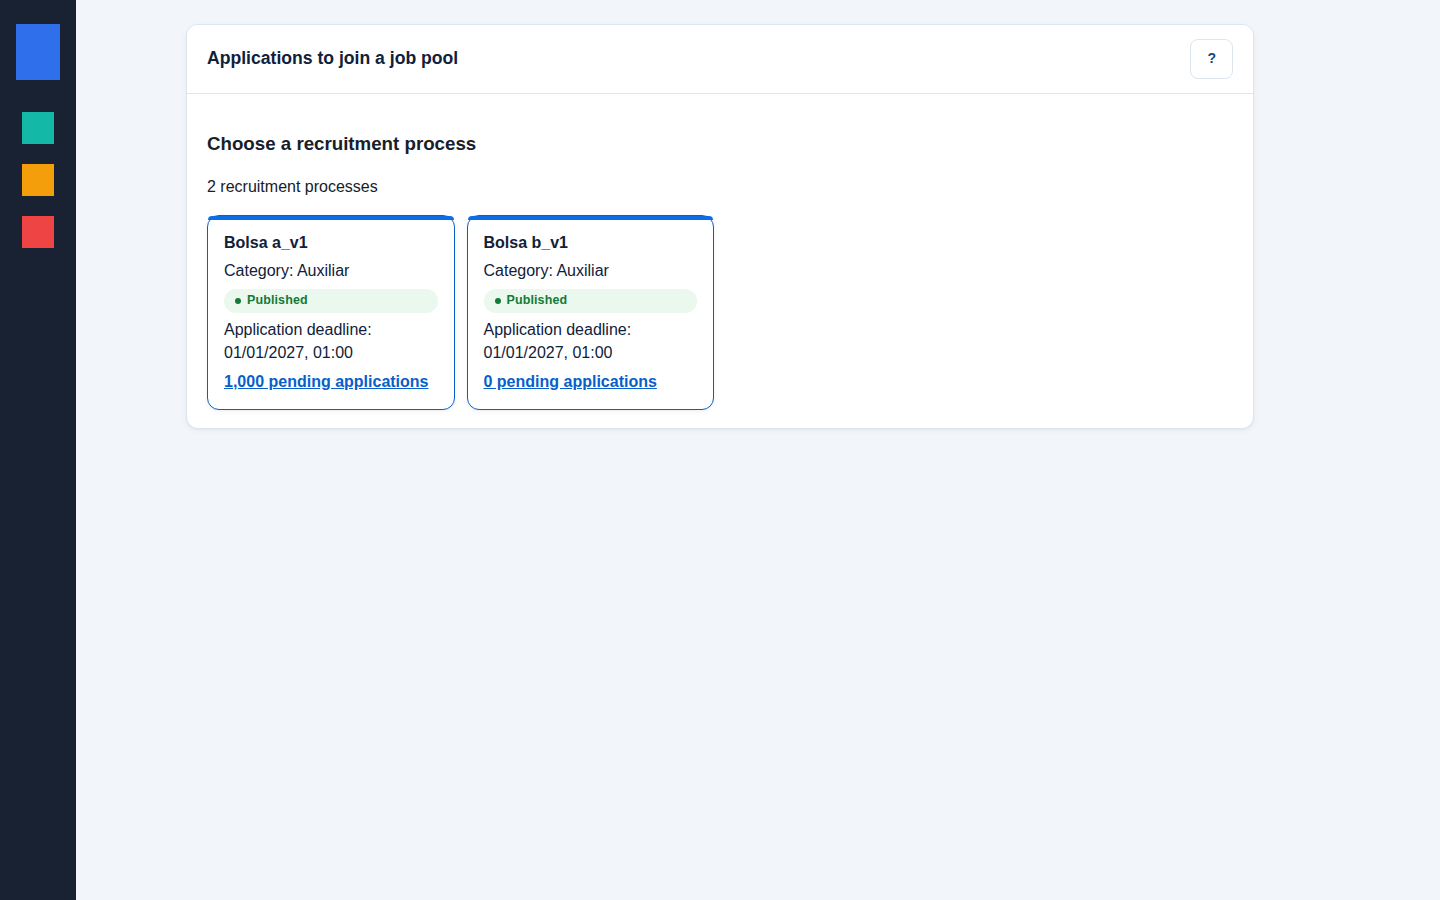
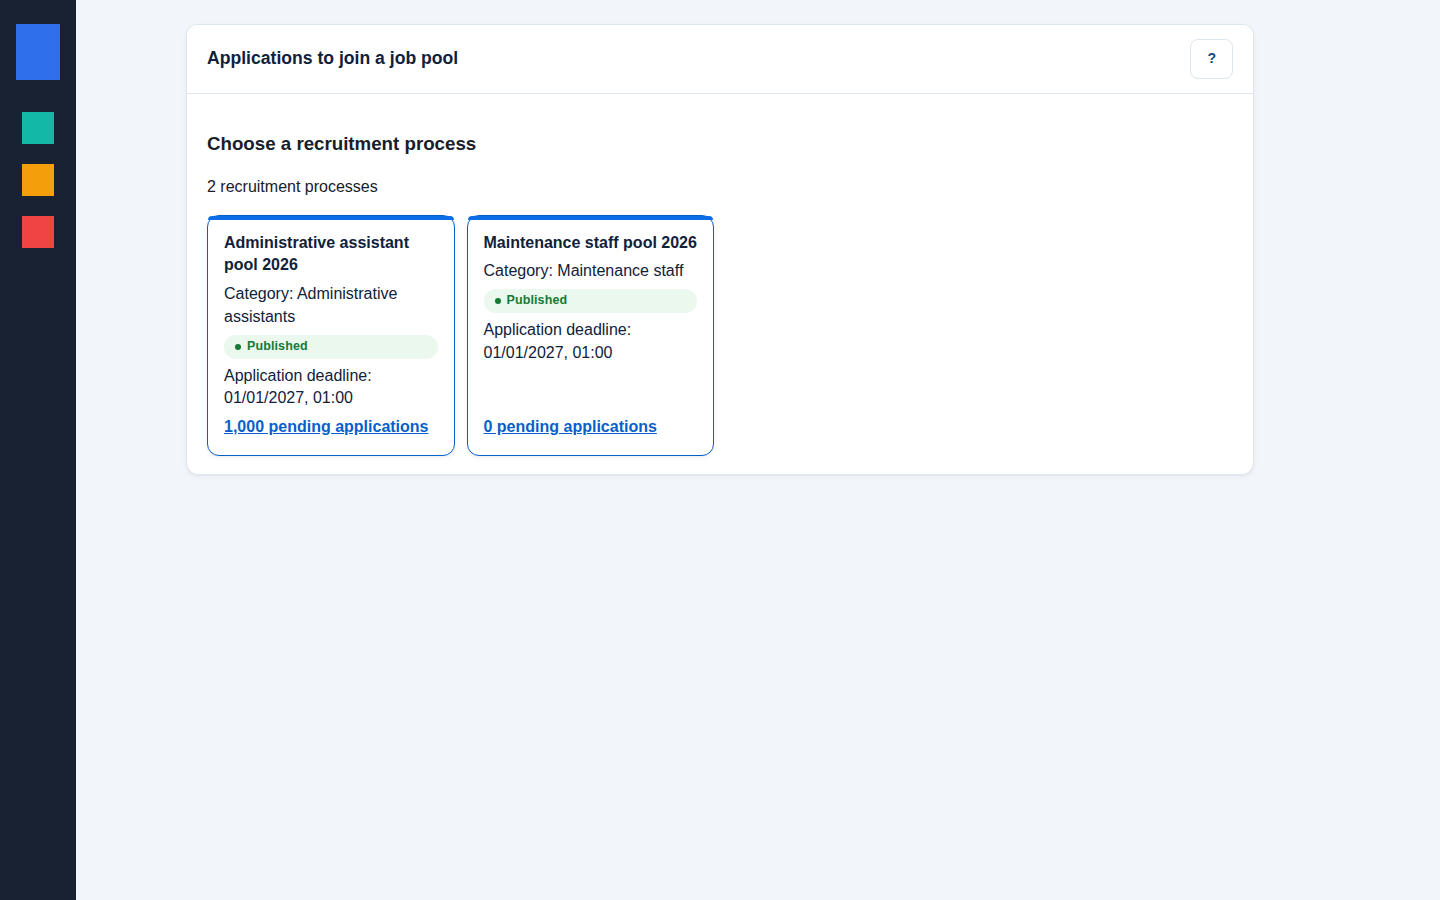
Ajustar evidencia visual de inscripción a nombres y categorías naturales
La proyección B99 del ensayo PostgreSQL en inglés alimenta las capturas a 1440 y 390 píxeles; se conserva el JSON sintético y el alcance del harness.

Changed region(s): [[0.1562, 0.2489, 0.4688, 0.4978], [0.3438, 0.2489, 0.5, 0.3111], [0.3438, 0.4044, 0.4688, 0.4356]]

diff --git a/docs/evidencias/codexo-inscripcion-20261010/README.md b/docs/evidencias/codexo-inscripcion-20261010/README.md
@@ -1,17 +1,20 @@
 # Lecturas de inscripción B99: comprobación visual
 
 Las capturas muestran el selector de convocatorias RRHH a 1440 y 390 píxeles
-en Chrome del sistema. La pantalla usó los CSS del portal y la proyección del
-selector obtenida en PostgreSQL 18 desechable con 2.000 solicitudes de prueba:
-1.000 pendientes en la convocatoria A y cero en la B. El navegador estaba en
-inglés; el catálogo español tiene las mismas claves.
+en Chrome del sistema. La pantalla usó los CSS del portal y
+[`selector-en.json`](selector-en.json), proyección de B99 obtenida en
+PostgreSQL 18 desechable con 2.000 solicitudes de prueba. La convocatoria
+«Administrative assistant pool 2026» tenía 1.000 pendientes y
+«Maintenance staff pool 2026», cero. El navegador estaba en inglés y los
+títulos y categorías procedían del resolutor sintético de metadatos en ese
+idioma. El catálogo español de la interfaz tiene las mismas claves.
 
 La tarjeta entera enlaza a la lista de solicitudes pendientes de su
 convocatoria. En ambos anchos el documento tuvo el mismo ancho que la ventana,
 sin desbordamiento horizontal. La captura de 390 píxeles muestra las tarjetas
 apiladas y el recuento legible.
 
-El HTML temporal montó la vista con esa respuesta de PostgreSQL y se eliminó
+El HTML temporal montó la vista con esa respuesta JSON de PostgreSQL y se eliminó
 después. No hubo API VEC, sesión nominal, auditoría de lectura ni recorrido
 completo de inscripción en el navegador. Esos pasos siguen pendientes de la
 integración de B96/B99 y la publicación gobernada de los permisos.
